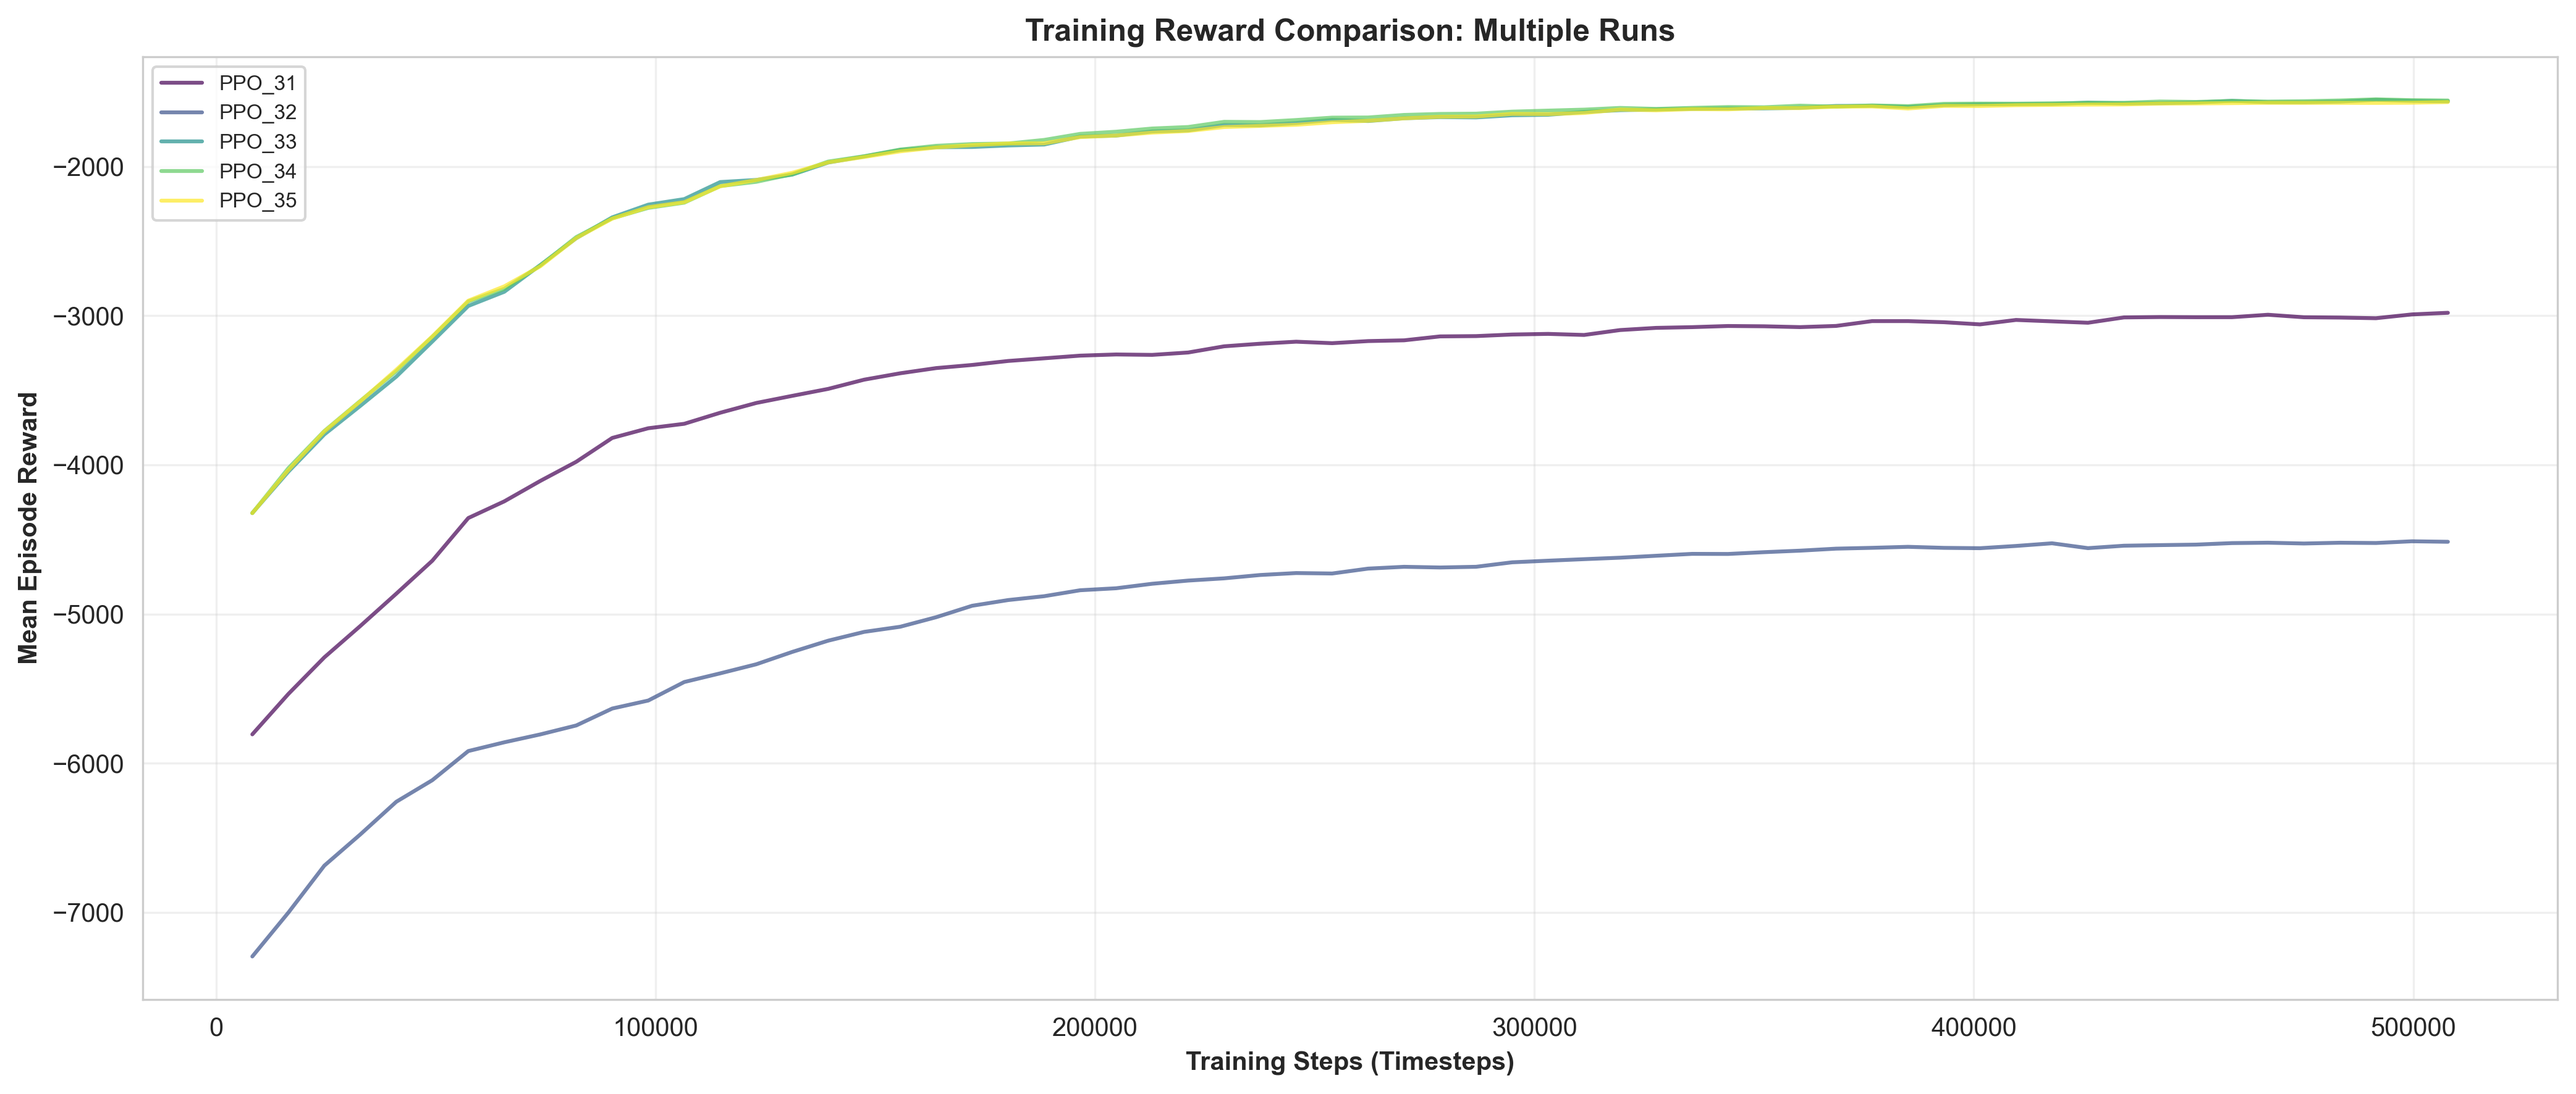
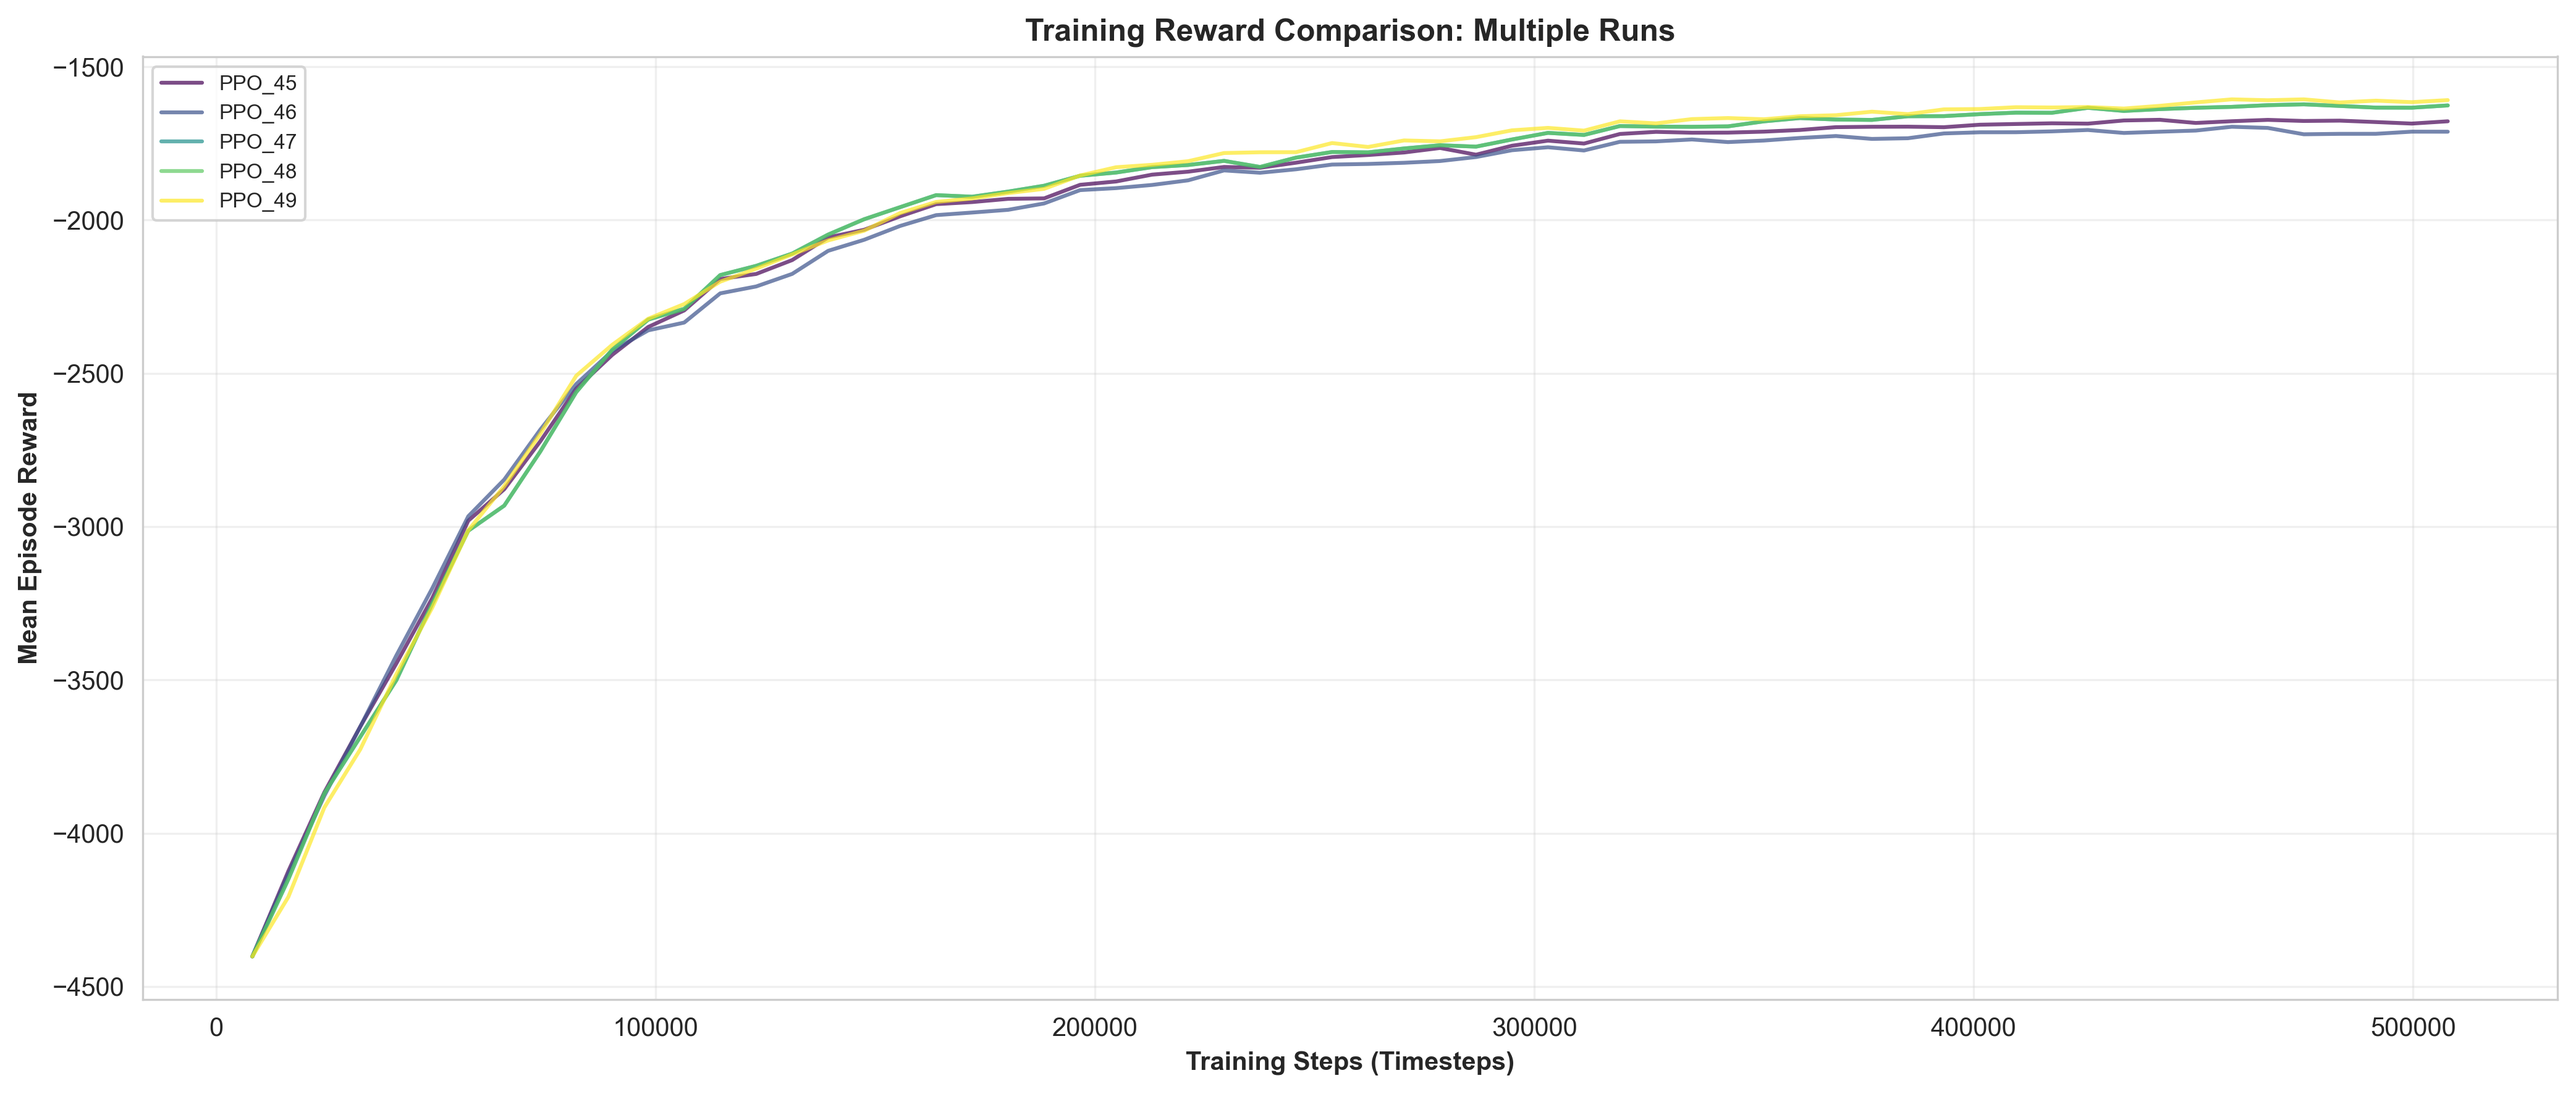
Increase learning rate

diff --git a/RL_agent/train.py b/RL_agent/train.py
@@ -119,7 +119,7 @@ def main():
         "MlpPolicy", 
         env, 
         verbose=1,
-        learning_rate=linear_schedule(2e-4),  # Decaying LR for better convergence
+        learning_rate=linear_schedule(10e-4),  # Decaying LR for better convergence
         gamma=0.99,                # Discount factor
         gae_lambda=0.95,           # GAE smoothing
         clip_range=0.2,            # PPO clipping parameter
